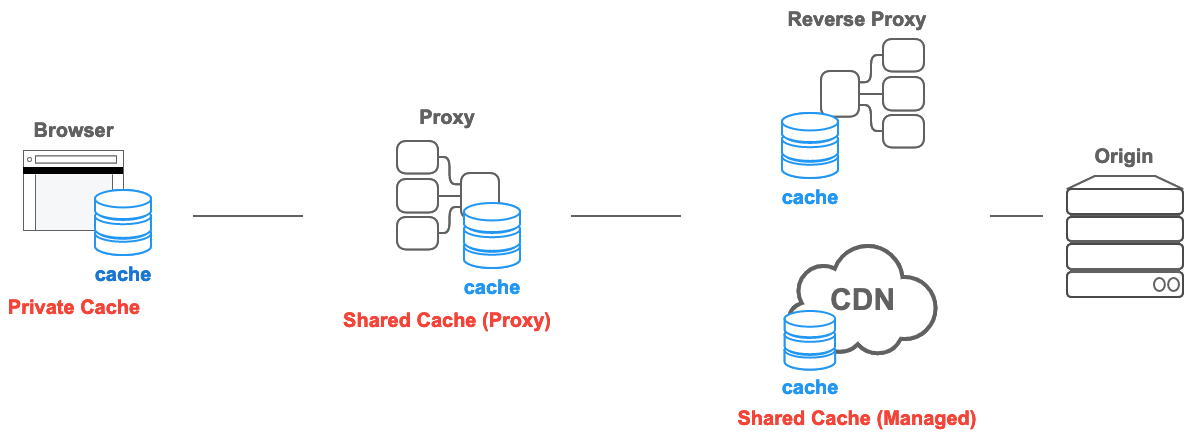
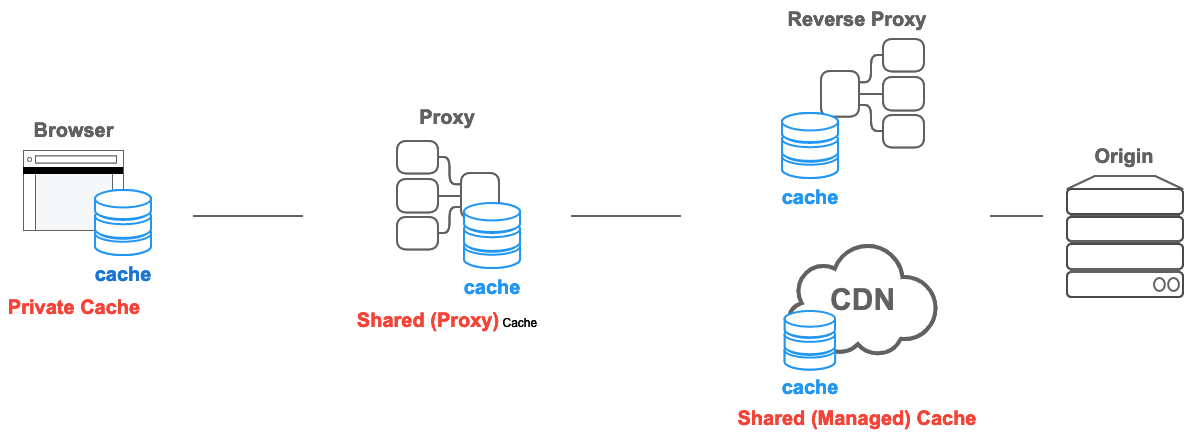
Fixup caching (#16287)
* link to CDN-Cache-Control draft

* Primary resources to Main resouces

* update png

* link to service worker section

* nits

* Update files/en-us/web/http/caching/index.md

Changed region(s): [[0.281, 0.7189, 0.4684, 0.7788], [0.6869, 0.9286, 0.843, 0.9885]]

diff --git a/files/en-us/web/http/caching/index.md b/files/en-us/web/http/caching/index.md
@@ -77,7 +77,7 @@ For example, Varnish uses VCL-based logic to handle cache storage, while service
 
 That means if a managed cache intentionally ignores a `no-store` directive, there is no need to perceive it as being "non-compliant" with the standard. What you should do is, avoid using kitchen-sink headers, but carefully read the documentation of whatever managed-cache mechanism you’re using, and ensure you’re controlling the cache properly in the ways provided by the mechanism you’ve chosen to use.
 
-Note that some CDNs provide their own headers that are effective only for that CDN (for example, `Surrogate-Control`). Currently, work is underway to define a `CDN-Cache-Control` header to standardize those.
+Note that some CDNs provide their own headers that are effective only for that CDN (for example, `Surrogate-Control`). Currently, work is underway to define a [`CDN-Cache-Control`](https://datatracker.ietf.org/doc/html/draft-ietf-httpbis-targeted-cache-control) header to standardize those.
 
 ![Type of Cache](type-of-cache.png)
 
@@ -121,7 +121,7 @@ Cache-Control: max-age=604800
 ...
 ```
 
-The cache which stored that response counts the time elapsed since the response was generated as an age. The meaning of `max-age` is that if the age is less than one week, then the response is fresh — and if the age is greater than one week, the the cached response is stale.
+The cache which stored that response counts the time elapsed since the response was generated as an age. The meaning of `max-age` is that if the age is less than one week, then the response is fresh — and if the age is greater than one week, the cached response is stale.
 
 If that response is stored in a private cache, it will be available for reuse in response to client requests for one week after it is stored. If the shared cache saves it, it is necessary to inform the client of the time elapsed from when it was stored to the shared cache until it is reused by the client. If the response has been stored in the shared cache for one day and then reused by the client, then the following response will be sent from the shared cache to the client.
 
@@ -220,7 +220,7 @@ Cache-Control: max-age=3600
 
 Upon receiving that response, the client reverts the stored stale response back to being fresh and can reuse it during the remaining 1 hour.
 
-The server can can obtain the modification time from the operating-system file system, which is relatively easy to do for the case of serving static files. However, there are some problems; for example, the time format is complex and difficult to parse, and distributed servers have difficulty synchronizing file-update times.
+The server can obtain the modification time from the operating-system file system, which is relatively easy to do for the case of serving static files. However, there are some problems; for example, the time format is complex and difficult to parse, and distributed servers have difficulty synchronizing file-update times.
 
 To solve such problems, the `ETag` response header was standardized as an alternative.
 
@@ -288,7 +288,7 @@ Cache-Control: max-age=0, must-revalidate
 
 `max-age=0` means that the response is immediately stale, and `must-revalidate` means that it must not be reused without revalidation once it is stale — so in combination, the semantics seem to be the same as `no-cache`.
 
-However, that usage of `max-age=0` is a remnant of the fact that many implementations prior to HTTP/1.1 were unable to handle the `no-cache` directive — and so to deal with that limitation, `max-age=0` was used as an workaround.
+However, that usage of `max-age=0` is a remnant of the fact that many implementations prior to HTTP/1.1 were unable to handle the `no-cache` directive — and so to deal with that limitation, `max-age=0` was used as a workaround.
 
 But now that HTTP/1.1-conformant servers are widely deployed, there’s no reason to ever use that `max-age=0`-and-`must-revalidate` combination — you should instead just use `no-cache`.
 
@@ -388,7 +388,7 @@ The `max-age=0` directive in the request specifies “reuse of responses with an
 
 As a result, a request is validated by `If-None-Match` and `If-Modified-Since`.
 
-That behavior is also defined in the [Fetch](https://fetch.spec.whatwg.org/#http-network-or-cache-fetch) standard and can be reproduced in JavaScript by calling`fetch()` with the cache mode set to `no-cache` (note that `reload` is not the right mode for this case):
+That behavior is also defined in the [Fetch](https://fetch.spec.whatwg.org/#http-network-or-cache-fetch) standard and can be reproduced in JavaScript by calling `fetch()` with the cache mode set to `no-cache` (note that `reload` is not the right mode for this case):
 
 ```js
 // Note: "reload" is not the right mode for a normal reload; "no-cache" is
@@ -613,9 +613,9 @@ Cache-Control: public, max-age=31536000
 Cache-Control: immutable
 ```
 
-### Primary resources
+### Main resources
 
-Unlike subresources, primary resources cannot be cache busted because their URLs can't be decorated in the same way that subresource URLs can be.
+Unlike subresources, main resources cannot be cache busted because their URLs can't be decorated in the same way that subresource URLs can be.
 
 If the following HTML itself is stored, the latest version cannot be displayed even if the content is updated on the server side.
 
@@ -658,17 +658,17 @@ Most web content can be covered by a combination of the two patterns described a
 
 ### More about managed caches
 
-With the method described in previous sections, subresources can be cached for a long time by using cache busting, but primary resources (which are usually HTML documents) can’t be.
+With the method described in previous sections, subresources can be cached for a long time by using cache busting, but main resources (which are usually HTML documents) can’t be.
 
-Caching primary resources is difficult because, using just standard directives from the HTTP Caching specification, there’s no way to actively delete cache contents when content is updated on the server.
+Caching main resources is difficult because, using just standard directives from the HTTP Caching specification, there’s no way to actively delete cache contents when content is updated on the server.
 
 However, it is possible by deploying a managed cache such as a CDN or service worker.
 
-For example, a CDN that allows cache purging via an API or dashboard operation would allow for a more aggressive caching strategy by storing the primary resource and explicitly purging the relevant cache only when an update occurs on the server.
+For example, a CDN that allows cache purging via an API or dashboard operation would allow for a more aggressive caching strategy by storing the main resource and explicitly purging the relevant cache only when an update occurs on the server.
 
 A service worker could do the same if it could delete the contents in the Cache API when an update occurs on the server.
 
-For more information, see the documentation for your CDN, and consult the service worker documentation here.
+For more information, see the documentation for your CDN, and consult the [service worker documentation](https://developer.mozilla.org/en-US/docs/Web/API/Service_Worker_API).
 
 ## See also
 
